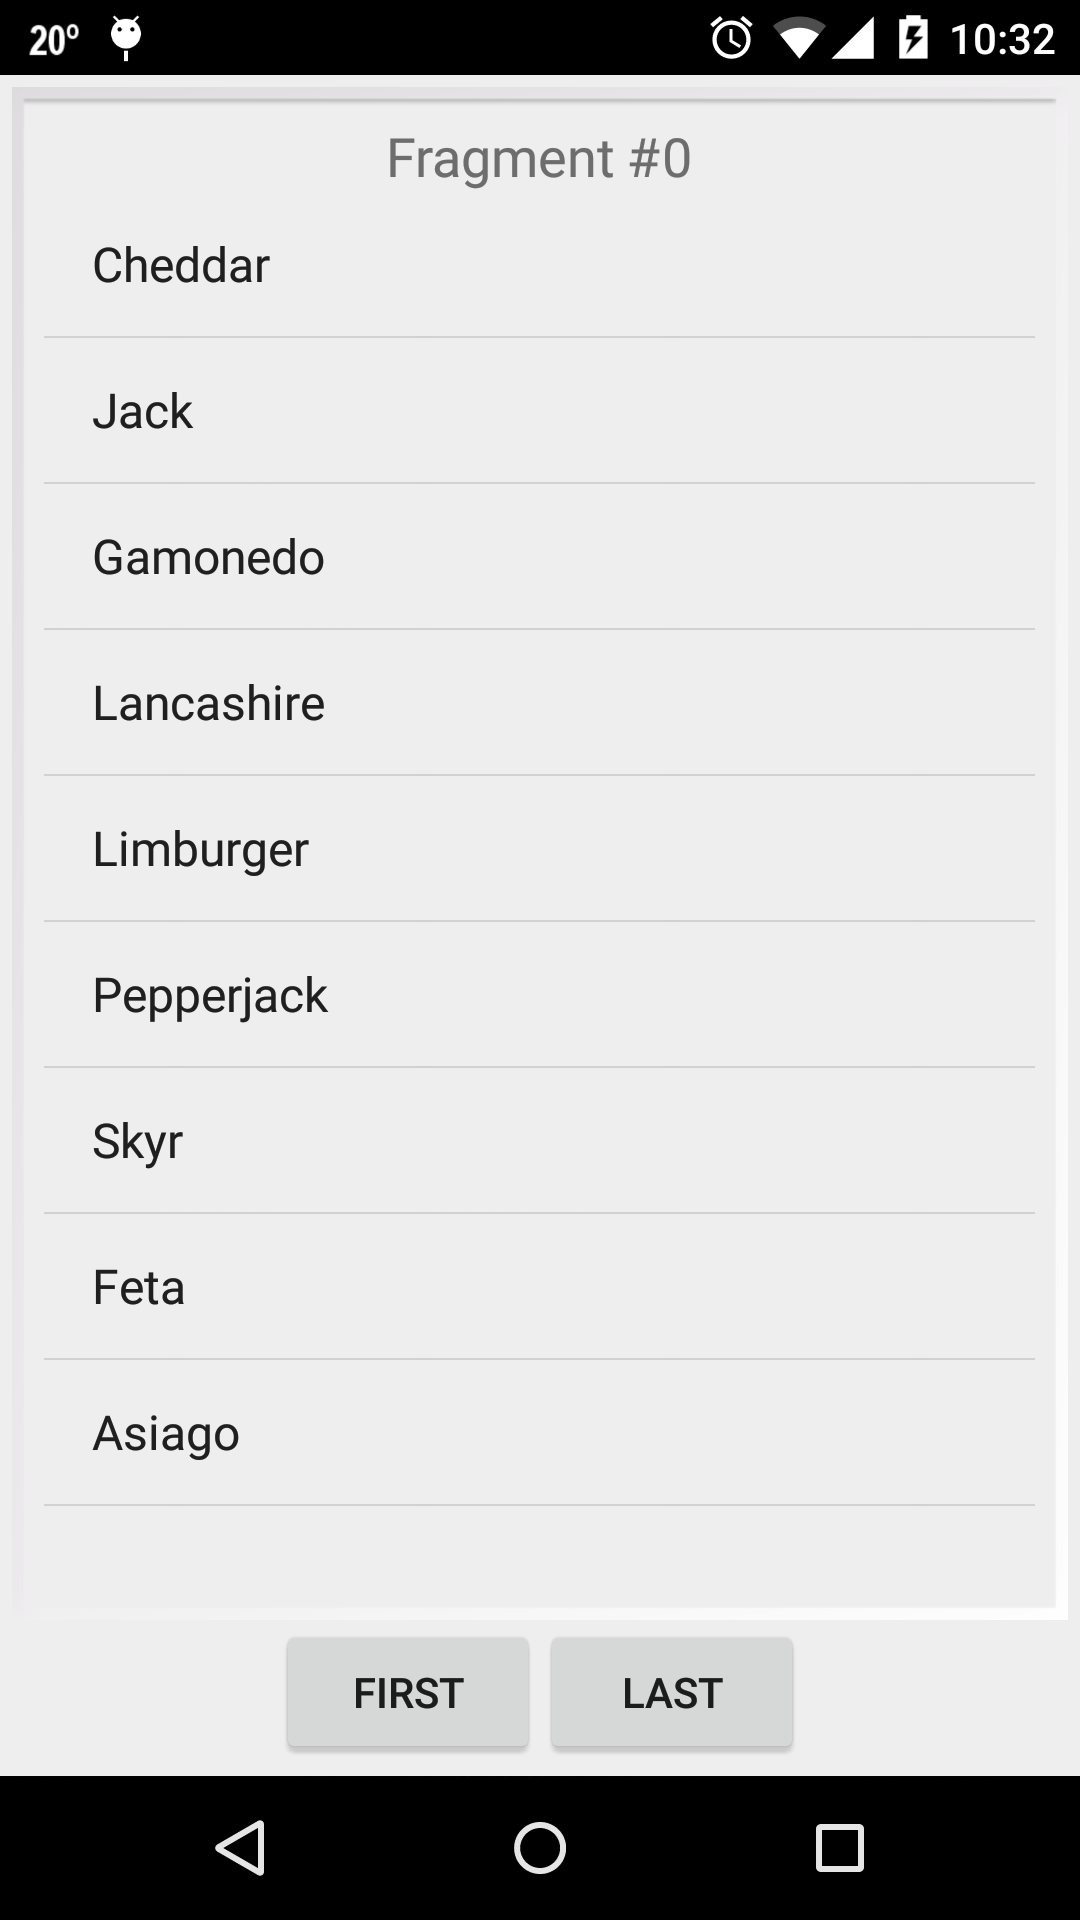
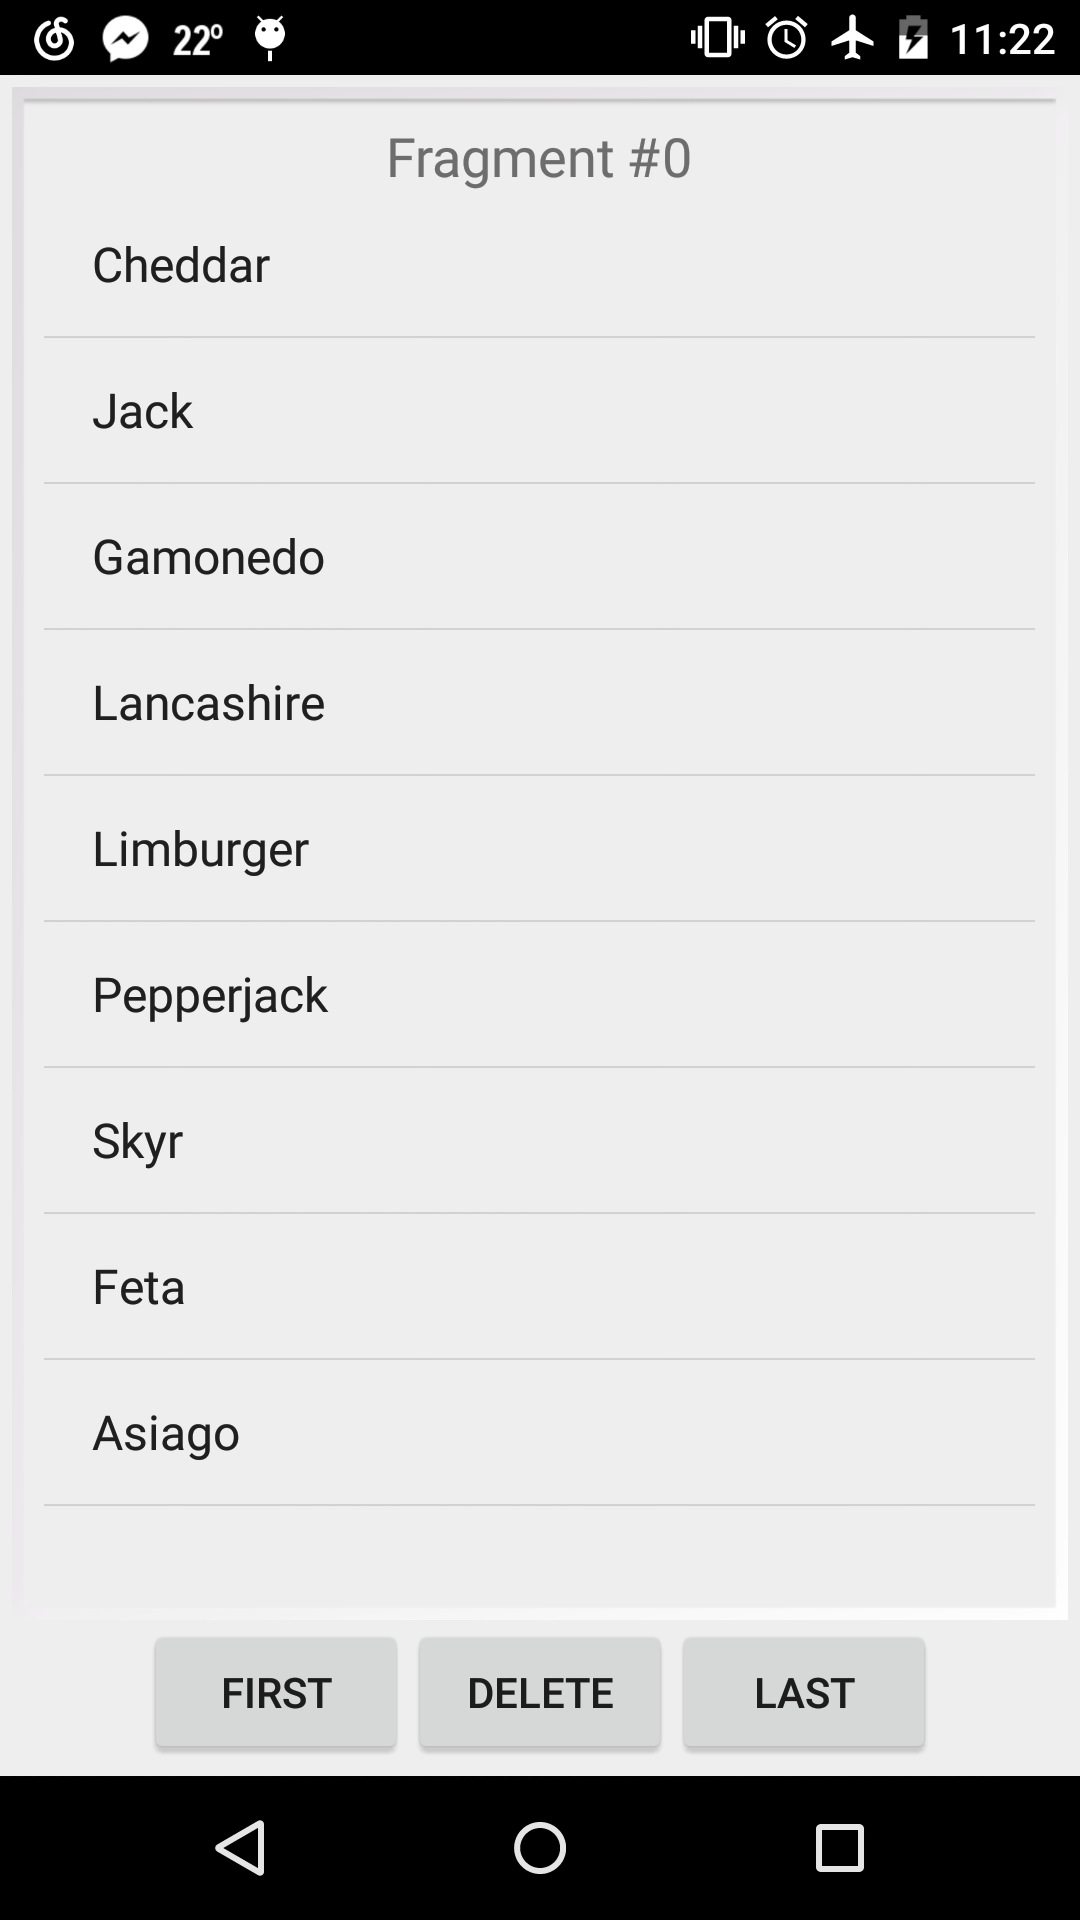
Add a delete button

diff --git a/app/src/main/java/com/o8o4/yuchen/fragmentstatepageradapterexample/MyAdapter.java b/app/src/main/java/com/o8o4/yuchen/fragmentstatepageradapterexample/MyAdapter.java
@@ -3,6 +3,9 @@ package com.o8o4.yuchen.fragmentstatepageradapterexample;
 import android.support.v4.app.Fragment;
 import android.support.v4.app.FragmentManager;
 import android.support.v4.app.FragmentStatePagerAdapter;
+import android.support.v4.view.PagerAdapter;
+
+import java.util.ArrayList;
 
 /**
  * Created by yuchen on 15-08-30.
@@ -10,18 +13,38 @@ import android.support.v4.app.FragmentStatePagerAdapter;
 public class MyAdapter extends FragmentStatePagerAdapter
 {
     static final int NUM_ITEMS = 10;
+    private ArrayList<Integer> page_indexes;
 
     public MyAdapter(FragmentManager fm) {
         super(fm);
+
+        page_indexes = new ArrayList<>();
+        for (int i = 0; i < NUM_ITEMS; i++) {
+            page_indexes.add(new Integer(i));
+        }
     }
 
     @Override
     public int getCount() {
-        return NUM_ITEMS;
+        return page_indexes.size();
     }
 
     @Override
     public Fragment getItem(int position) {
-        return ArrayListFragment.newInstance(position);
+        Integer index = page_indexes.get(position);
+        return ArrayListFragment.newInstance(index.intValue());
+    }
+
+    public void deletePage(int position)
+    {
+        page_indexes.remove(position);
+        notifyDataSetChanged();
+    }
+
+    // This is called when notifyDataSetChanged() is called
+    @Override
+    public int getItemPosition(Object object) {
+        // refresh all fragments when data set changed
+        return PagerAdapter.POSITION_NONE;
     }
 }

diff --git a/app/src/main/java/com/o8o4/yuchen/fragmentstatepageradapterexample/MainActivity.java b/app/src/main/java/com/o8o4/yuchen/fragmentstatepageradapterexample/MainActivity.java
@@ -30,6 +30,13 @@ public class MainActivity extends FragmentActivity {
                 mPager.setCurrentItem(0);
             }
         });
+        button = (Button)findViewById(R.id.delete_current);
+        button.setOnClickListener(new View.OnClickListener() {
+            @Override
+            public void onClick(View v) {
+                mAdapter.deletePage(mPager.getCurrentItem());
+            }
+        });
         button = (Button)findViewById(R.id.goto_last);
         button.setOnClickListener(new View.OnClickListener() {
             public void onClick(View v) {

diff --git a/readme.md b/readme.md
@@ -2,4 +2,6 @@
 
 Android Studio example of `ViewPager` with `FragmentStatePagerAdapter`. 
 
-![screenshoot](screenshoot.png "screenshoot")
+<center>
+<img src="screenshoot.png" width="50%">
+</center>
